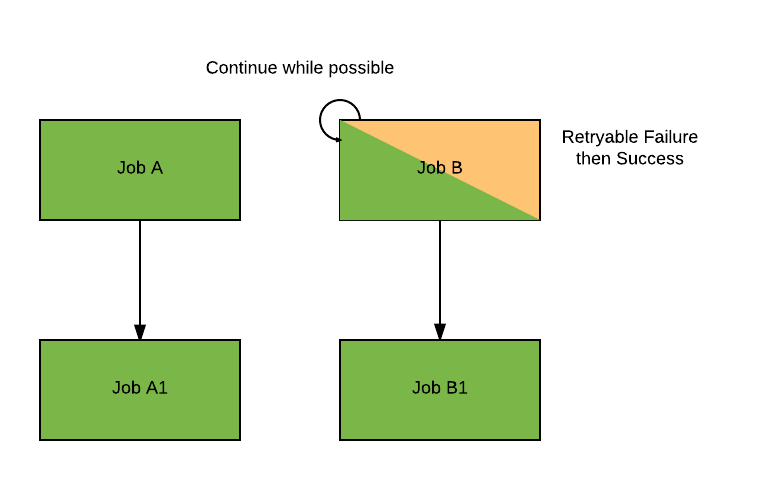
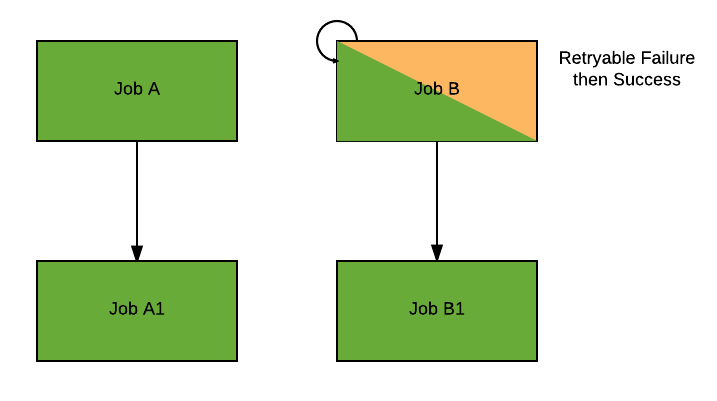
Nearly done with doc changes

diff --git a/docs/execution/ExecutionTwists.md b/docs/execution/ExecutionTwists.md
@@ -1,94 +1,97 @@
-In order to run a workflow, Cromwell uses the backends available to it to create jobs and monitor them until they are complete. When no new jobs can or should be started, and all jobs have reached a terminal status (Success, Failure, Aborted), the workflow itself is terminated.
+In order to run a workflow, Cromwell uses the backends available to it to create jobs and monitor them until they are complete. When no new jobs can start and all jobs have finished (Success, Failure, Aborted), the workflow terminates.
 
 In an ideal situation, all jobs succeed and the workflow succeeds.
 Unfortunately things don't always go as planned. Here is what to expect from Cromwell when things go off the rails.
 
 ## Failure Modes
 
-Cromwell supports two failure modes:
+Cromwell supports two failure modes, which specify how Cromwell behaves when a job fails during the execution of a workflow.
 
-* `NoNewCalls` (default)
-* `ContinueWhilePossible`
+* `NoNewCalls` **(default)**  
+	* Cromwell does not start any new call as soon as a job fails. Cromwell will still monitor the rest of the jobs until they complete (successfully or not).  
+* `ContinueWhilePossible`  
+	* Cromwell attempts to run as many jobs as possible until no more can be started. When all running jobs are complete, the workflow fails.
 
-They specify how Cromwell behaves when a job fails during the execution of a workflow.
+The failure mode can be set in the [Configuration](../Configuring/) or [Workflow Options](../wf_options/Overview#workflow-failure).
 
-`NoNewCalls` will not start any new call as soon as a job fails. Cromwell will still monitor the rest of the jobs until they complete (successfully or not).
-
-`ContinueWhilePossible` will attempt to run as many jobs as possible until no more can be started. When all running jobs are complete, the workflow fails.
-
-They can be set in the configuration or via the [workflow options](../wf_options/Overview#workflow-failure)
-
-Here is an example:
+_For example:_
 
 ![](ABdependency.png)
 
-This simple diagram represents 4 jobs: A and B are independent, A1 depends on A, and B1 depends on B.
+This simple diagram represents 4 jobs:
 
-Let's look at the case where A and B are both running, and for some reason B fails.
+* Job A and Job B are independent; 
+* Job A1 depends on A; 
+* Job B1 depends on B.
 
-* If the failure mode is `NoNewCalls`, Cromwell will wait for A to complete, and regardless of whether it's successful or not, it will then fail the workflow, without starting A1 nor B1.
+Let's look at the case where A and B are both running, and for some reason B fails (shaded red).
+
+**`NoNewCalls`**  
+If the failure mode is `NoNewCalls` Cromwell waits for A to complete (shaded green). Regardless of whether A is successful or not, Cromwell then fails the workflow, without starting A1 or B1 (shaded grey).
 
 ![](NNC_B_fail.png)
 
-* If the failure mode is `ContinueWhilePossible` and A succeeds, then Cromwell will start A1 and wait for it to complete. At this point all jobs that can be run have been run. Indeed B1 cannot be run since B failed. Cromwell will therefore fail the workflow.
+**`ContinueWhilePossible`**  
+If the failure mode is `ContinueWhilePossible` and A succeeds (green), then Cromwell starts A1 (green) and waits for it to complete. At this point all jobs that can run have completed. B1 (grey) cannot run since B failed (red), therefore Cromwell fails the workflow without starting B1.
 
 ![](CWP_B_fail.png)
 
 ### Retryable failures
 
-An example of a retryable failure is a preemptible VM being preempted.
+Retryable failures are **not** failures that can trigger a workflow failure. An example of a retryable failure is when a [preemptible VM](../RuntimeAttributes/#preemptible) is preempted. 
 
-Retryable failures are **not** failures that can trigger a workflow failure.
-In the example above, if B's failure is retryable, then B will be retried and the workflow will keep running normally.
+In the example above, if B's failure is retryable then B will be retried (shaded yellow and green). The workflow will keep running normally, regardless of which failure mode is enabled.
 
 ![](CWP_B_retryable_fail_then_success.png)
 
-However, always using the previous example, if **B** fails from a **non-retryable** failure, and **A** fails from a **retryable** failure, the behavior will once again depend on the failure mode:
+Using the previous example, let's imagine **B** failed from a **non-retryable** failure (shaded red). After B failed, **A** fails from a **retryable** failure. Now Cromwell's behavior will depend on the failure mode.
 
-If the failure mode is `NoNewCalls`, then A **will not be** retried:
+**`NoNewCalls`**  
+If the failure mode is `NoNewCalls`, then A **will not be** retried (yellow). A1 (grey) will not start, because A did not complete.
 
 ![](NCC_B_fail_A_retryable.png)
 
-If the failure mode is `ContinueWhilePossible`, then A **will be** retried:
+**`ContinueWhilePossible`**  
+If the failure mode is **`ContinueWhilePossible`**, then A **will be** retried (yellow and green). If A is successful then A1 will start (green).
 
 ![](CWP_B_fail_A_retryable.png)
 
 ## Abort
 
-In both Run and Server mode, you have the ability to ask Cromwell to abort a running workflow. This section explains what that entails.
+In both [Run](../Modes/#run) and [Server](../Modes/#server) mode, you can abort a running workflow. This section explains what that entails.
 
-When aborting a workflow, either through the [abort endpoint](api/RESTAPI#abort-a-running-workflow) or by terminating the [Cromwell run process](Modes) (if [configured](Configuring#abort) to do so), Cromwell will take the following steps:
+When aborting a workflow, either through the [abort endpoint](../api/RESTAPI#abort-a-running-workflow) or by terminating the [Cromwell run process](../Modes) (if [configured](../Configuring#abort) to do so), Cromwell does the following:
 
-- Change the status of the workflow to `Aborting`
-- Do not start any new job going forward
-- Ask every running job to abort
-- Wait for all running jobs to reach completion
-- Finalize the workflow
-- Change the status of the workflow to `Aborted`
+1. Changes the status of the workflow to `Aborting`,
+2. Does not start any new jobs,
+3. Asks every running job to abort,
+4. Waits for all running jobs to complete,
+5. Finalizes the workflow,
+6. Changes the status of the workflow to `Aborted`.
 
-The action of aborting a job is backend specific. Cromwell can only ask a backend to abort a job and wait for the backend to notify it when it is in fact aborted.
-Note that by the time the backend is asked to abort a job, it might already be successful, or failed, in which case Cromwell will report the job as such.
+The action of aborting a job is backend specific. Cromwell can only ask a backend to abort a job and wait for the backend to notify it when it is aborted.  
 
-As an example, the Google backend when asked to abort a job will send an abort request to the Pipelines API. When Pipelines API indicates that the status of the job is aborted, Cromwell will mark it as such.
-However the abort action is entirely dependent on the backend, in this particular case, Pipelines API does not guarantee the success of an abort request (see [Pipelines API documentation on abort](https://cloud.google.com/genomics/reference/rest/v1alpha2/operations/cancel)).
+For example, if you are running Cromwell on the Google backend and abort a job, Google will send an abort request to the Google Pipelines API. When Pipelines API indicates that the status of the job is aborted, Cromwell will mark it as such.
+Remember that abort action is entirely dependent on the backend. In this particular case, Pipelines API does not guarantee the success of an abort request (see [Pipelines API documentation on abort](https://cloud.google.com/genomics/reference/rest/v1alpha2/operations/cancel)).
 
 You'll also notice that the workflow is finalized even though being aborted.
 Finalization is the last step in the execution of a workflow and a chance for each backend to do some work before the workflow is terminated.
 Backends won't be denied the chance to finalize the workflow even if it's being aborted.
 
-If a job fails with a retryable failure (e.g is preempted), it will **not** be attempted again when the workflow is aborting.
+_Note that by the time the backend is asked to abort a job, the job may have succeeded or failed already. In this case Cromwell will report the job's status (successful or failed)._
+
+_If a job fails with a retryable failure (e.g is preempted), it will **not** be attempted again when the workflow is aborting._
 
 ## Restart
 
-When Cromwell is run in server mode, it is likely that the server will have to be stopped and started again at some point (to upgrade Cromwell to a new version for example).
-In such a case, if the `workflow-restart` configuration option is set to `true` (it is by default), Cromwell will restart all jobs that were in progress.
+When Cromwell is run in server mode, it is likely that the server will have to be stopped and started again at some point (for example to upgrade Cromwell to a new version).
+In such case, if the `workflow-restart` configuration option is set to `true` (default), Cromwell will restart all jobs that were in progress. Specifically Cromwell will attempt to reconnect to all running jobs of a workflow.
 
-Specifically it will attempt to reconnect to all running jobs of a workflow.
-The ability to reconnect to an existing job is again backend dependent. The Google Backend and the HPC backends currently support it.
+The ability to reconnect to an existing job is, again, backend dependent. The Google Backend and the HPC backends currently support it.
 
-If the workflow was in state `Aborting`, Cromwell will ask all running jobs to abort again. No new job will be started.
+If the workflow was in state `Aborting`, Cromwell will ask all running jobs to abort again. No new jobs will be started.
 
-Otherwise once all jobs have been reconnected to, the workflow will keep running normally.
+Once all jobs have been reconnected to, the workflow will keep running normally.
 
-During the reconnection process Cromwell might ask backends to reconnect to jobs that were never started before the restart. In that case, the job will be mark as failed with an explanation message. This failure is benign and only an artifact of the fact that Cromwell was restarted
+During the reconnection process Cromwell might ask backends to reconnect to jobs that were never started before the restart. In that case, the job will be mark as failed with an explanation message. This failure is benign and only an artifact of the fact that Cromwell was restarted.
 If the backend does not support reconnection to an existing job, jobs will be marked as failed with an explanation message as well. The backend status of the jobs will be "Unknown".

diff --git a/CHANGELOG.md b/CHANGELOG.md
@@ -8,6 +8,9 @@
 
 ### Other changes
 
+* **New Cromwell documentation**  
+Our documentation has moved from our [README](https://github.com/broadinstitute/cromwell/blob/29_hotfix/README.md) to a new website: [Cromwell Documentation](http://cromwell.readthedocs.io/en/develop/). There are new [Tutorials](http://cromwell.readthedocs.io/en/develop/tutorials/FiveMinuteIntro/) and much of the documentation has been re-written. The source files are in the [/docs](https://github.com/broadinstitute/cromwell/tree/develop/docs) directory.
+
 * **API**  
     + Cromwell now supports input files in the yaml format (JSON format is still supported).
     + Added a [GET version for the `labels` endpoint](http://cromwell.readthedocs.io/en/develop/api/RESTAPI/#retrieves-the-current-labels-for-a-workflow) which will return current labels for a workflow.
